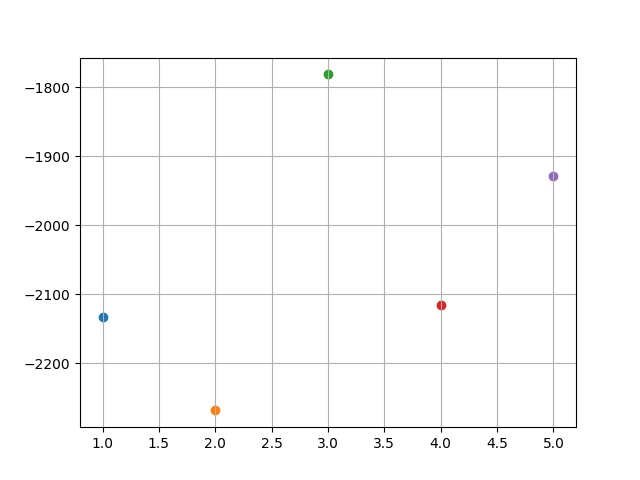
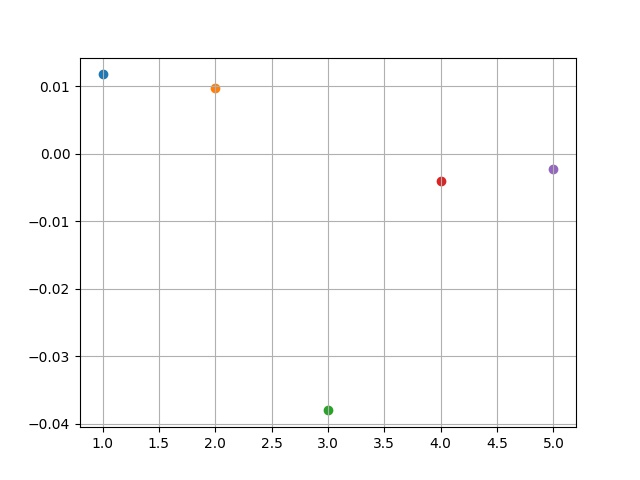
another attept at r correlaton

diff --git a/src/utils/correlate_r_EB.py b/src/utils/correlate_r_EB.py
@@ -42,14 +42,16 @@ if __name__ == "__main__":
         # y1 = df_c.rad
         for i in range(1, df_c.shape[0]):
             df_c.loc[i, "total_hours"] = -((df_c.time[0]- df_c.time[i]).total_seconds() / (60*60)) 
-            df_c.loc[i, "spray_energy"] = icestupa.df.Qfreeze[(icestupa.df.event == 1) & (icestupa.df.time<df_c.time[i])].sum()
+            # df_c.loc[i, "spray_energy"] = icestupa.df.Qfreeze[(icestupa.df.event == 1) & (icestupa.df.time<df_c.time[i])].sum()
             df_c.loc[i, "spray_hours"] = icestupa.df.event[(icestupa.df.event == 1) & (icestupa.df.time <df_c.time[i])].count() 
-            df_c.loc[i, "melt_energy"] = icestupa.df.Qmelt[(icestupa.df.event == 0) & (icestupa.df.time <df_c.time[i])].sum()
+            # df_c.loc[i, "melt_energy"] = icestupa.df.Qmelt[(icestupa.df.event == 0) & (icestupa.df.time <df_c.time[i])].sum()
             df_c.loc[i, "melt_hours"] = icestupa.df.event[(icestupa.df.event == 0) & (icestupa.df.time < df_c.time[i])].count()
-            df_c.loc[i, "spray_mag"] = df_c.loc[i, "spray_energy"]/(df_c.loc[i,"spray_hours"] * icestupa.L_F)
-            df_c.loc[i, "melt_mag"] = df_c.loc[i, "melt_energy"]/(df_c.loc[i,"melt_hours"]* icestupa.L_F )
-            df_c.loc[i, "diff"] = (df_c.loc[i,"spray_mag"] - df_c.loc[i,"melt_mag"])
-            y = (df_c.loc[i,"rad"] - df_c.loc[0,"rad"])/df_c.loc[i,"diff"] 
+            # df_c.loc[i, "spray_mag"] = df_c.loc[i, "spray_energy"]/(df_c.loc[i,"spray_hours"] * icestupa.L_F)
+            # df_c.loc[i, "melt_mag"] = df_c.loc[i, "melt_energy"]/(df_c.loc[i,"melt_hours"]* icestupa.L_F )
+            # df_c.loc[i, "diff"] = (df_c.loc[i,"spray_mag"] - df_c.loc[i,"melt_mag"])
+            df_c.loc[i, "diff"] = (df_c.loc[i,"spray_hours"] - df_c.loc[i,"melt_hours"])
+            y = (df_c.loc[i,"rad"] - df_c.loc[0,"rad"])/df_c.loc[i,"diff"]
+            # y = (df_c.loc[i,"rad"] - df_c.loc[0,"rad"])/df_c.loc[i,"spray_hours"] 
             x = df_c.index[i]
             ax.scatter(x, y)
 
